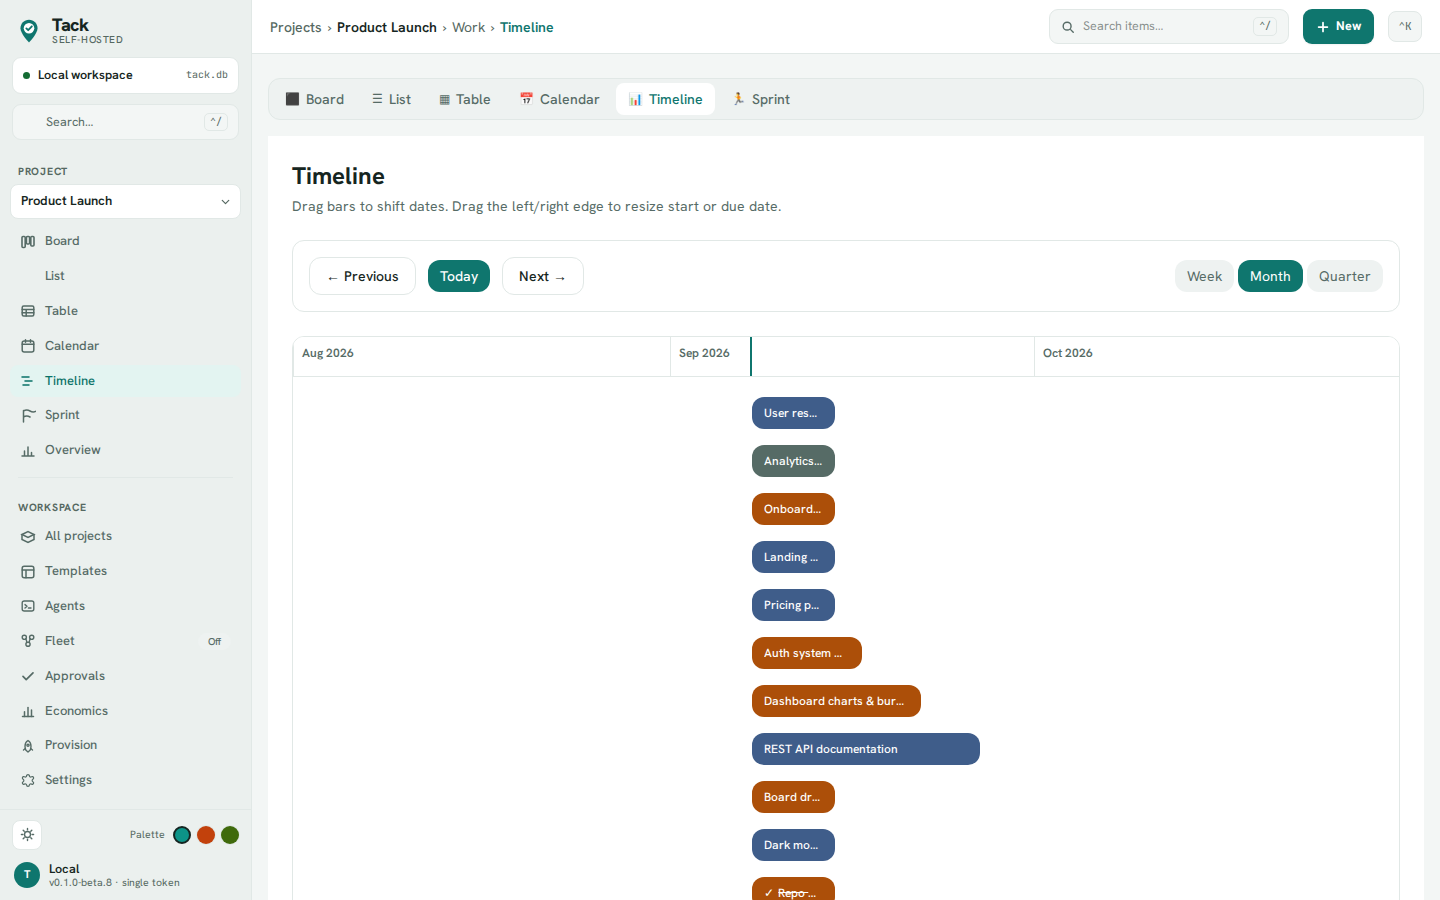
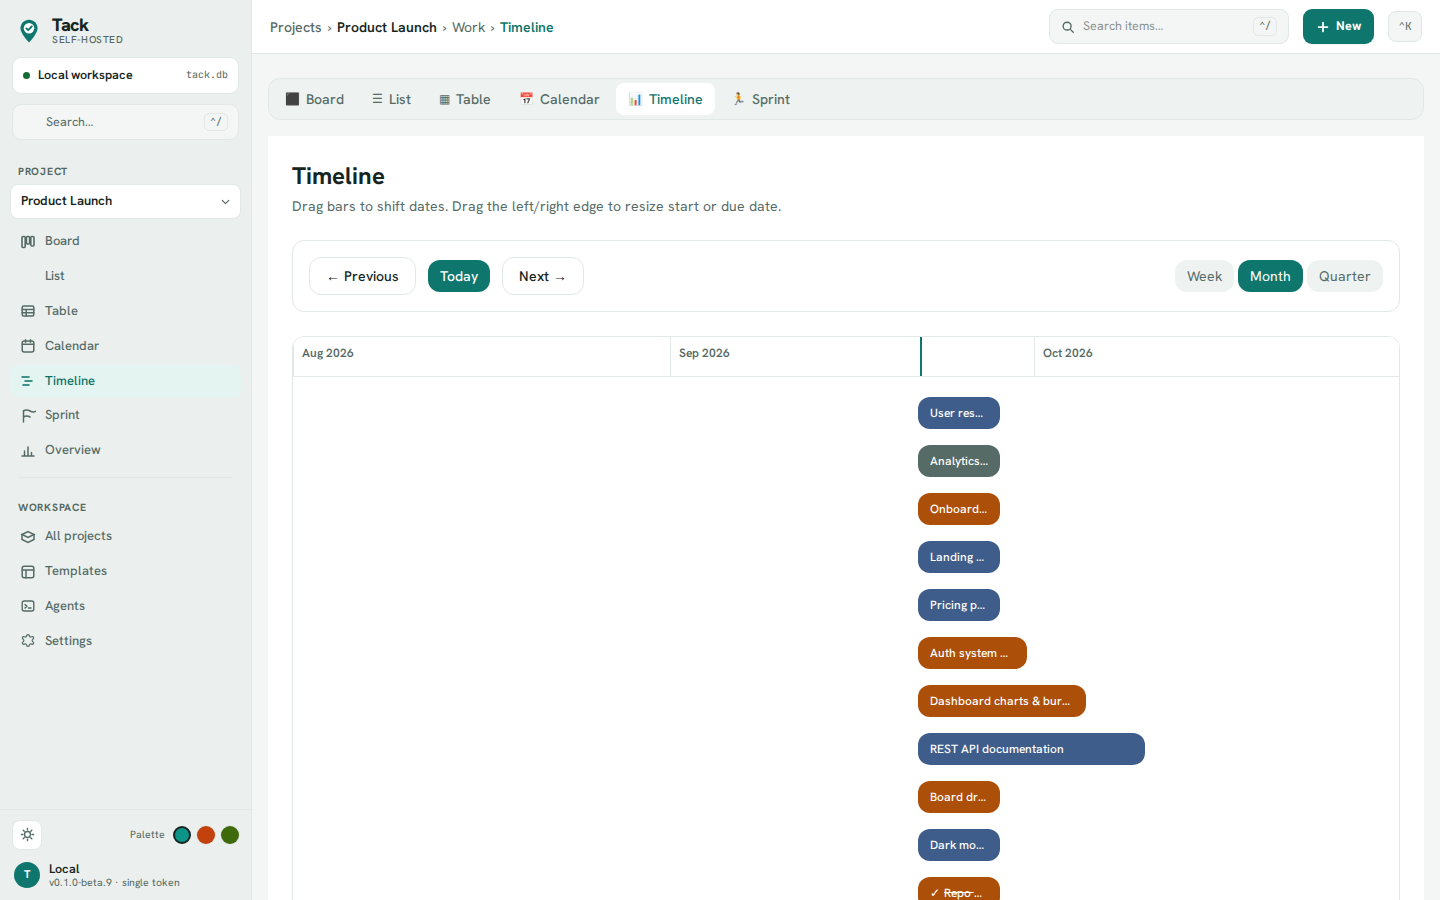
docs(readme): re-capture the product screenshots and show all four harnesses
The five project-manager screenshots still had Fleet, Approvals, Economics
and Provision in the sidebar — four pages removed on 2026-09-18 — and an old
version string. Re-captured from the current build with `make screenshots`;
the board now also shows the banner that offers to turn agent execution on.

The two-components diagram drew two runner cards, Claude Code and Codex,
while its own alt text named four. It now draws one card per harness, and
the caption under the pull arrow no longer overruns both plane borders.

Two alt texts claimed more than their image shows: the Agents-page GIF is
cropped above the login chip, so it never shows one flipping to Verified,
and the desktop window shows the two harnesses that machine had installed,
not the list Tack supports.

The Screenshots section led with a sentence about the board and the Agents
page being up top when neither was; it now leads with the board and the
timeline, and says where the agent surfaces actually are.

Changed region(s): [[0.5, 0.4356, 0.8125, 1.0], [0.0312, 0.7467, 0.0625, 0.8711], [0.0312, 0.6844, 0.0625, 0.7156]]

diff --git a/README.md b/README.md
@@ -31,7 +31,7 @@ it costs you to run:
   accounts, no subscriptions, nothing running in someone else's cloud.
 
 <p align="center">
-  <img src="docs/screenshots/agents-flow.gif" width="49%" alt="The Agents page's Test run control: a real dispatch against claude-code, watched live to Succeeded, with the harness's login flipping to Verified and its measured cost shown" />
+  <img src="docs/screenshots/agents-flow.gif" width="49%" alt="The Agents page's Test run control: a real dispatch against claude-code, watched live from Leased through Running to Succeeded, ending on the matched request, the model it actually ran on, and a measured token cost" />
   <img src="docs/screenshots/attempt.png" width="49%" alt="An item's Execution tab: a real attempt shown Succeeded, its requested-vs-actual model matched against claude-sonnet-4-5, and its usage economics — token cost measured, wall-clock cost explicitly Not measured rather than shown as zero." />
 </p>
 
@@ -259,26 +259,35 @@ either:
 
 ## Screenshots
 
-The board and the Agents page are up top — these two carry the rest of the signal
-that's specific to Tack rather than table stakes for any PM tool.
+The agent surfaces are up top, in [Running an agent](#running-an-agent) — they carry
+the signal that's specific to Tack. These are the project manager underneath it: the
+part that works on day one with no runner attached.
 
 <p align="center">
+  <img src="docs/screenshots/board.png" width="49%" alt="Board — Kanban with WIP limits (3/5, 2/3) and drag-and-drop, with a banner offering to turn agent execution on for this board" />
   <img src="docs/screenshots/timeline.png" width="49%" alt="Timeline — dependency-aware Gantt view; the same DAG that decides what an agent is eligible to pick up next" />
-  <img src="docs/screenshots/dashboard.png" width="49%" alt="Dashboard — status distribution and throughput, the same measured-not-estimated posture applied to project-level reporting" />
 </p>
 
-**Timeline** is the dependency DAG that also gates agent eligibility — an item
-blocked on an unfinished dependency isn't just visually behind a bar, it isn't
-handed to a runner yet either. **Dashboard** applies the same "measured, not
-estimated" rule the Agents page uses for run cost to project-level throughput.
+**Board** is the plain Kanban any tracker gives you, plus the one thing this one adds:
+the banner offering to turn agent execution on, which is the whole distance between a
+tracker and a board that can run its own items. **Timeline** is the dependency DAG that
+also gates agent eligibility — an item blocked on an unfinished dependency isn't just
+visually behind a bar, it isn't handed to a runner yet either.
+
+<p align="center">
+  <img src="docs/screenshots/dashboard.png" width="49%" alt="Overview — total items, completion rate, and status and priority distribution, the same measured-not-estimated posture applied to project-level reporting" />
+  <img src="docs/screenshots/list.png" width="49%" alt="List — sortable rows with inline editing, each carrying its priority and its workflow status" />
+</p>
+
+**Overview** applies the same "measured, not estimated" rule the Agents page uses for
+run cost to project-level throughput. **List** is the same items as the board, sorted
+and edited in place.
 
 <details>
-<summary>Plain Kanban and list views, plus the vocabulary editor</summary>
+<summary>The vocabulary editor — the UI, CLI and API all follow it</summary>
 <br>
 
-![Board — Kanban with WIP limits and drag-and-drop](docs/screenshots/board.png)
-![List — sortable rows with inline editing](docs/screenshots/list.png)
-![Vocabulary editor — rename any term to match your domain](docs/screenshots/settings-vocabulary.png)
+![Vocabulary editor — rename any term (Task, Sprint, Epic, Backlog…) to match your domain; blank falls back to the default label](docs/screenshots/settings-vocabulary.png)
 
 </details>
 
@@ -348,7 +357,7 @@ All four are built for every release from `v0.1.0-beta.9` on and published on th
 [releases page](https://github.com/yielab/tack/releases); `make desktop` builds the app
 from source.
 
-![Tack's desktop window open on the Agents page, showing agent execution on and Codex and Claude Code both detected on the machine](docs/screenshots/desktop-window.png)
+![Tack's desktop window open on the Agents page, agent execution running, with the two harnesses that machine had installed — Codex and Claude Code — each detected and version-stamped](docs/screenshots/desktop-window.png)
 
 The app adds an icon to your system tray. **Closing the window doesn't stop
 it** — the board keeps running, and the tray icon reopens the window. **Quit
